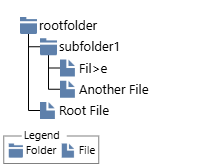
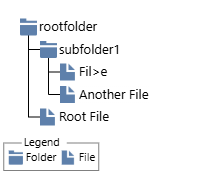
readme update

Changed region(s): [[0.0861, 0.0898, 0.7177, 0.7485], [0.0, 0.7784, 0.488, 0.988], [0.0287, 0.9281, 0.1148, 0.9581]]

diff --git a/IconConfig/SVGconverter.html b/IconConfig/SVGconverter.html
@@ -1,0 +1,54 @@
+<!DOCTYPE html>
+<html>
+<head>
+    <meta charset="utf-8">
+    <title>SVG to PNG Converter</title>
+</head>
+<body>
+
+<input type="file" id="svgFiles" accept=".svg" multiple>
+
+<script>
+document.getElementById("svgFiles").addEventListener("change", async (e) => {
+
+    for (const file of e.target.files) {
+
+        const svgText = await file.text();
+
+        const blob = new Blob(
+            [svgText],
+            { type: "image/svg+xml" }
+        );
+
+        const url = URL.createObjectURL(blob);
+
+        const img = new Image();
+
+        await new Promise((resolve, reject) => {
+            img.onload = resolve;
+            img.onerror = reject;
+            img.src = url;
+        });
+
+        const canvas = document.createElement("canvas");
+
+        canvas.width = img.width;
+        canvas.height = img.height;
+
+        const ctx = canvas.getContext("2d");
+        ctx.drawImage(img, 0, 0);
+
+        const pngUrl = canvas.toDataURL("image/png");
+
+        const link = document.createElement("a");
+        link.href = pngUrl;
+        link.download = file.name.replace(".svg", ".png");
+        link.click();
+
+        URL.revokeObjectURL(url);
+    }
+});
+</script>
+
+</body>
+</html>

diff --git a/src/extension.ts b/src/extension.ts
@@ -6,6 +6,7 @@ import * as path from 'path';
 
 
 
+
 import { Computelayout2, initlegendbloc2 } from './Computelayout';
 import { parseEditor, legendextract, Parselegendbloc, bomgen } from './parseEditor';
 import { generateCommandHTML, generateSVG2 } from './HTMLgeneration';
@@ -611,7 +612,7 @@ export function activate(context: vscode.ExtensionContext) {
 
 				if ("emphasis" in BOMtable.params) { emphasis = BOMtable.params.emphasis; }
 				const legende: legend = legendextract(BOMtable.BOMs);
-				console.log("legend:",legende)
+				console.log("legend:",legende);
 				let legenditems: legenditem[] = Parselegendbloc(legende, icons);
 				bboxservice.webview.postMessage({ command: 'getbboxes', context: "preview", boms: BOMtable, fontdefs: fontdefs, emphasises: emphasis, legenditems: legenditems });
 

diff --git a/README.md b/README.md
@@ -1,14 +1,12 @@
 # BoMarkdown README
 
-![](.svg "")
-
 BoMarkdown is an extension that generetates a SVG representation of a Bill of material (like a tree) from a textual description. It is inspired by other text to graph tools like plantuml or mermaid.js
 
 ````
 ```bomarkdown Images/FolderExample
 + (i:folder,rootfolder)
  + (i:folder, subfolder1)
-  + (i:file, Fil>e)
+  + (i:file, File)
   + (i:file, Another File)
  + (i:file, Root File)
 ```
@@ -421,6 +419,73 @@ On the starting block you can define an image path
 The path use forward "/" and the name is without extension
 If no block or path is detected the program will create a svg file with the same path as the current editor file.
 Ex launching the command on  "c:\myfolder\myfile.txt" will create or update the myfile.png in the myfolder folder.
+### Markdown-it integration
+Thanks to the export we can now have a partial support for the integrated markdown-it plugin of vscode. 
+if a fenced code starting with bomarkdown is detected markdown-it will render a svg instead of the block:
+
+this code
+````text
+```bomarkdown Image/Fencedblock
+${{
+"legendcolumns":4
+}}$
+
++ **Requirement**
++ (i:folder,Requfolder)(b:context)
+ + (i:spec,Spec 1,A)texte ignoré (e:[A->B[)texte ignoré
+  + __
+  + (e:c'est un **commentaire** valable§(mais pas essentiel))(i:req,req1,1)(a:u1)
+  + (i:req,req2,1)
+  + (i:req,req3,1)(a:u3)
+  + (i:...)
+ + (i:spec,Spec 2,A)(a:spec1)(e:[B->#oo[)
+  + (i:req,req1,1)(l:i:u3!middle label)
+  + (i:req,req2,1)
+  + (i:req,req3,1)(l:i:u1!>begin label,u1!<end label)
+  + (i:...)
++newcolumn 100
++ **Design**
++ (i:assembly,Assembly,A.1)(s:R)
+ + (i:assembly,SubAssembly1,A.1)(l:s:ma1!>begin,ma1!middle,ma1!<end)(e:o)
+  + (i:component,Component 1,A.1)(b:matrice)
+  + (i:component,Component 2§wesh,A.1)(b:lock)
+
+  + (i:component,Component 3,A.1)
+ + (i:assembly,SubAssembly2,A.1)(e:Model1[A->#oo[§Model2[C->#oo[)
+  + (i:component,Component 1,A.1)
+  -+ **Prop1**: toto
+  -+ **Prop2**: tata
+  + (i:component,Component 2,A.1)
+ + (i:assembly,SubAssembly3,A.1)(a:sa3)(l:c:spec1!>begin label,spec1!<end label,spec1!label)
+  + (i:component,Component 1,A.1)
+  + (i:component,Component 2,A.1)
+  + (i:component,Component 3§that last§up to§Four lines!,A.1)
+  + (i:component,Component 4,A.1)
+  a+ (i:component,Component ***4 bis***,A.1)(b:noway)
++newcolumn 
++ **Manuf**
++ (i:mitem,Assembly,A.1)
+ + (i:mitem,SubAssembly1,A.1)(a:ma1)
+  + (i:mitem,Component 1)
+  + (i:mitem,Component 1)
+  -+ property1
+  + (i:mitem,Component 1)
+  -+ property3
+  -+ property4
+ + (i:mitem,Component 1)
+ + (i:mitem,Component 1)
+ + (i:mitem,SubAssembly3,A.1)
+  + (i:mitem,PhantomAssembly1,A.1)
+   + (i:mitem,Component 1)
+   + (i:mitem,Component 1)
+  + (i:mitem,PhantomAssembly2,A.1)
+   + (i:mitem,Component 1)
+   + (i:mitem,Component 1)
+```
+
+````
+will first render as 
+
 
 ### Insert SVG in markdown
 
@@ -430,6 +495,7 @@ Like the export the command will generate or update a svg file from the current 
 It will also insert an image markdown element below the code block and refresh the markdown preview enhanced window.
 
 ![insertSVG](Images/InsertasSVG.gif)
+
 
 ### BOM Commands {#bom-commands}
 
@@ -546,7 +612,7 @@ It opens the selected json icon file for edition
 ![bomarkdown](Images/EditJson%20select.png "Json Selection")
 
 you can add a label to a icon for the legend :
-![Images/addicon](Images/addicon.svg "Images/addicon")
+![Images/addicon](Images/addicon.png "Images/addicon")
 
 
 ```json
@@ -935,7 +1001,7 @@ Objet used to replace a string by an utf8 symbol in all the labels. For instance
 
 
 
-![Images/UTF8rep](Images/UTF8rep.svg "Images/UTF8rep")
+![Images/UTF8rep](Images/UTF8rep.png "Images/UTF8rep")
 
 note that #null is inserting an empty line
 
@@ -947,7 +1013,7 @@ Fun fact if you use UTF8 code in the text it works the setting is just here to m
 + Emoji can be supported &#128540;
 ```
 ````
-![Images/funUTF8rep](Images/funUTF8rep.svg "Images/funUTF8rep")
+![Images/funUTF8rep](Images/funUTF8rep.png "Images/funUTF8rep")
 
 ## Known Issues
 

diff --git a/demo/Demo.md b/demo/Demo.md
@@ -59,8 +59,9 @@ ${{
    + (i:mitem,Component 1)
 -->
 
-![Stock](Stock.svg "Stock")
+
 ![demo/Stock](Stock.svg "demo/Stock")
+
 <!--bomarkdown demo/simple
 + (i:assembly,Ceci est un long label (parenthèse (nestées)),A.1)wesh(s:D)fin de truc en commentaire
 + (i:assembly,Ceci est un long label§with two lines,A.1)(s:D)(e:o)(t:RDO1,green)
@@ -71,6 +72,8 @@ ${{
 
 
 -->
+
+![demo/simple](demo/simple.svg "demo/simple")
 
 
 
